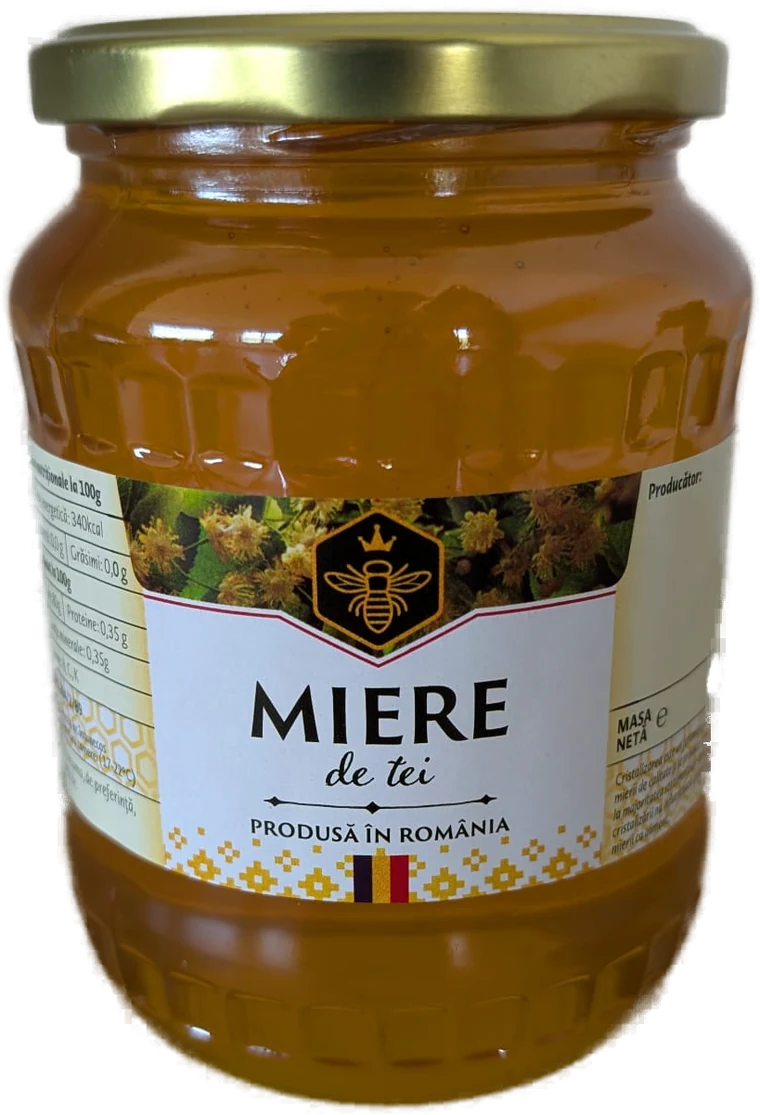
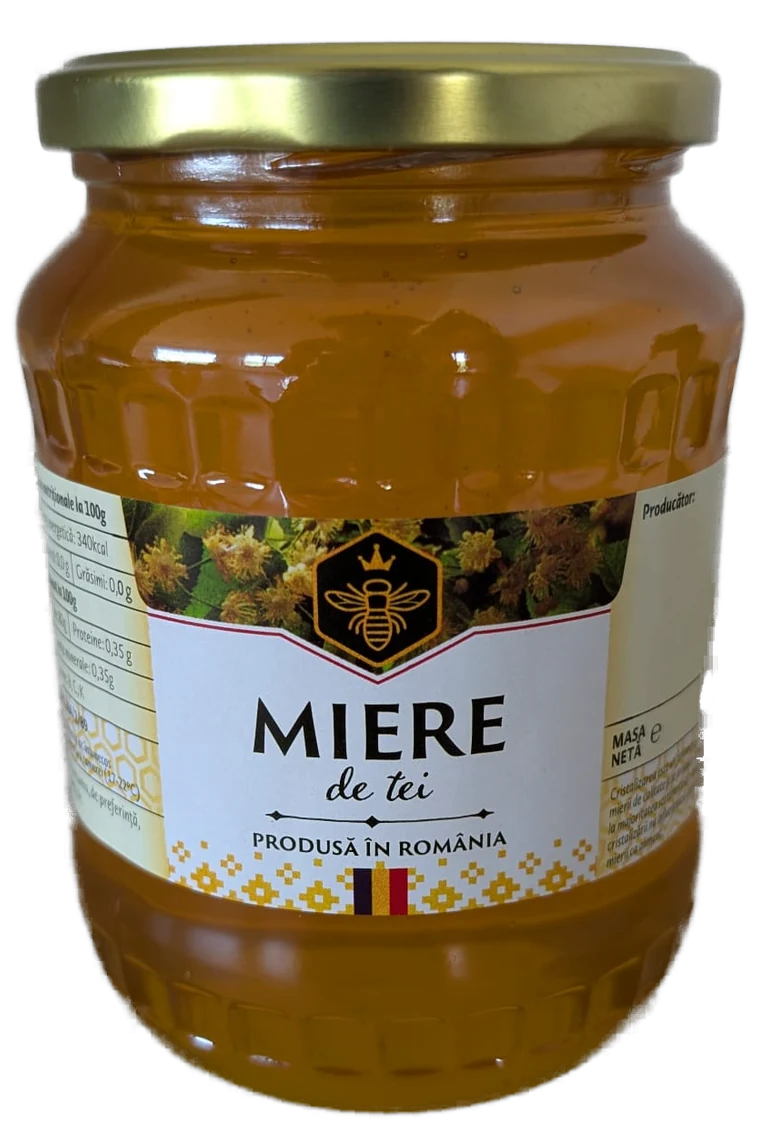
feat(shop): real Miere de Munte photo; normalize product photos to shared canvas
- add munte jar photo (background removed)
- normalize all product photos to a 760x1140 canvas so grid rows align
  regardless of each jar's native aspect ratio

Changed region(s): [[0.0, 0.0, 0.9987, 1.0]]

diff --git a/components/ui/ProductVisual.tsx b/components/ui/ProductVisual.tsx
@@ -15,7 +15,7 @@ interface ProductVisualProps {
 // width × 4/3. We match a real photo to that height so cards in a grid keep
 // their rows aligned regardless of the photo's own aspect ratio.
 const JAR_RATIO = 320 / 240;
-const PHOTO_RATIO = 1115 / 760; // intrinsic ratio of the product photos
+const PHOTO_RATIO = 1140 / 760; // shared canvas ratio of all normalized product photos
 
 /** Product illustration — real photo when available, else the generated jar/bottle. */
 export function ProductVisual({ product, width = 110, className }: ProductVisualProps) {

diff --git a/lib/products.ts b/lib/products.ts
@@ -100,6 +100,7 @@ export const products: Product[] = [
       { weight: "1kg", price: 30, weightKg: 1.4 },
     ],
     color: "#8B5E0A",
+    image: "/images/products/miere-munte.webp",
     badge: "Premium",
     badgeColor: "gold",
     inStock: true,